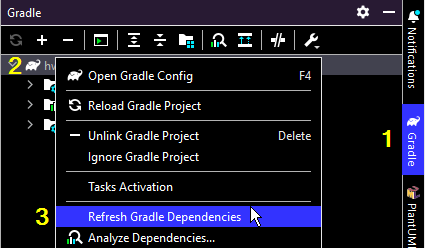
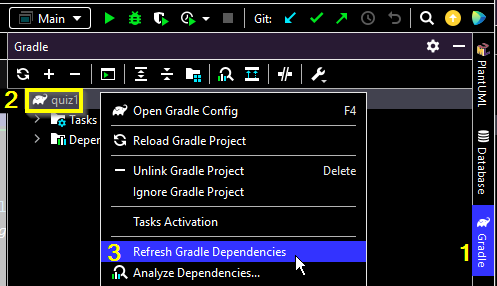
Update image

diff --git a/README.md b/README.md
@@ -52,7 +52,7 @@ See [Refreshing the Jacquard library](https://northeastern.hosted.panopto.com/Pa
 or follow these steps in IntelliJ:
 
 1. Click on `Gradle` in the right sidebar.
-2. Right-click (or control-click) on the project name.
+2. Right-click (or control-click) on the project name (or the elephant icon to its left).
 3. Select `Refresh Gradle Dependencies`.
 
 ![screenshot](images/refresh-jar.png)
